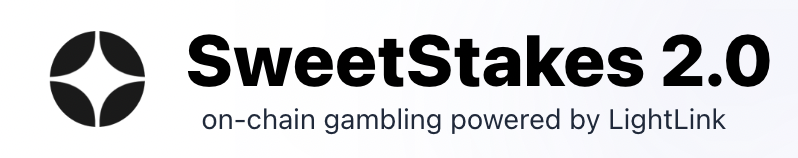
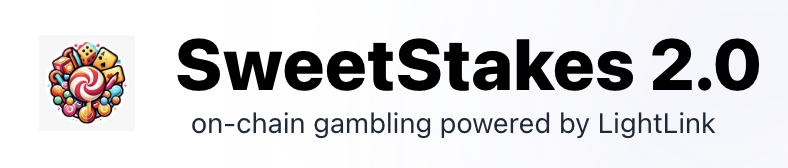
update image

Changed region(s): [[0.2132, 0.2025, 0.9746, 0.557], [0.2437, 0.6582, 0.9137, 0.8608], [0.0609, 0.2025, 0.1827, 0.8101]]

diff --git a/frontend/src/components/Header.tsx b/frontend/src/components/Header.tsx
@@ -1,4 +1,4 @@
-import logo from '../assets/logo.svg';
+import logo from '../assets/logo.png';
 import { WalletBtn } from './WalletBtn';
 import Balance from './functional/Balance';
 import UserLevels from './functional/UserLevels';
